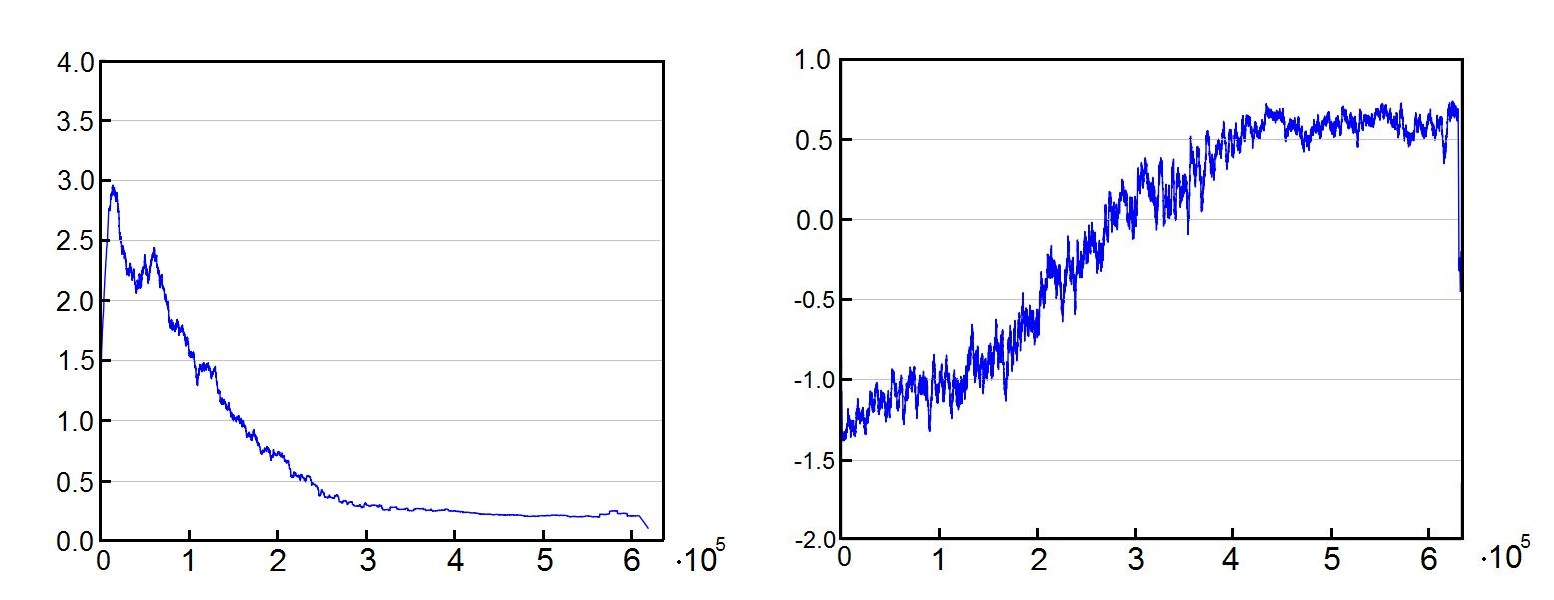
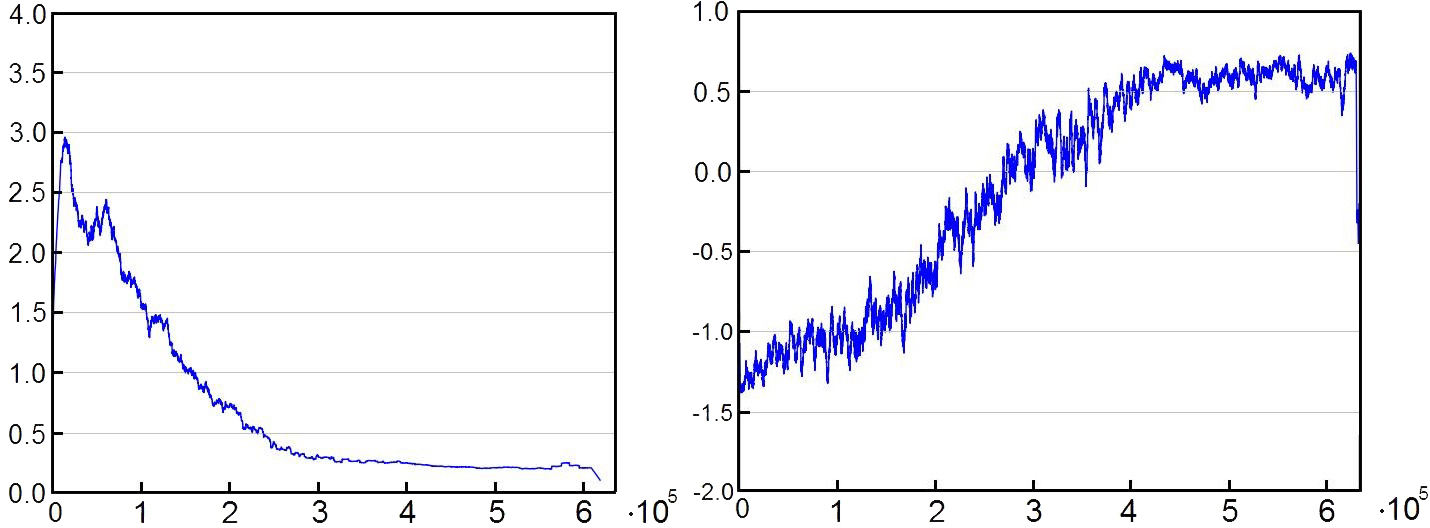
combined tracks in one picture, added caption, refit both-plot image

diff --git a/abschlussdokument/evaluation.tex b/abschlussdokument/evaluation.tex
@@ -5,8 +5,8 @@
 
 \begin{figure}[!t]
 \centering
-\includegraphics[scale=0.3]{../plots/track}
-\caption{Track divided in six sections.}
+\includegraphics[scale=0.24]{../plots/track_both}
+\caption{Left: Training track divided in six sections. Right: Additional test track with vehicle.}
 \label{track}
 \end{figure}
 
